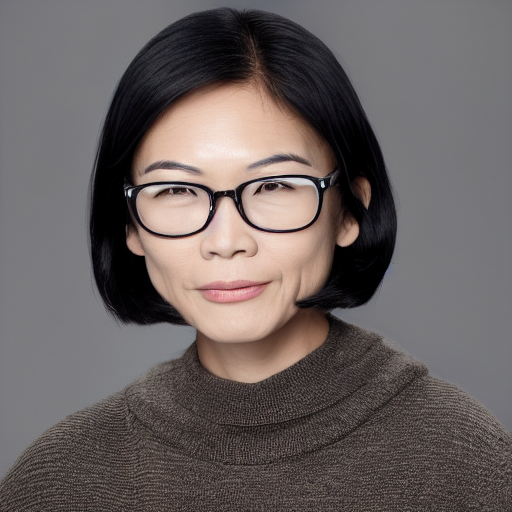
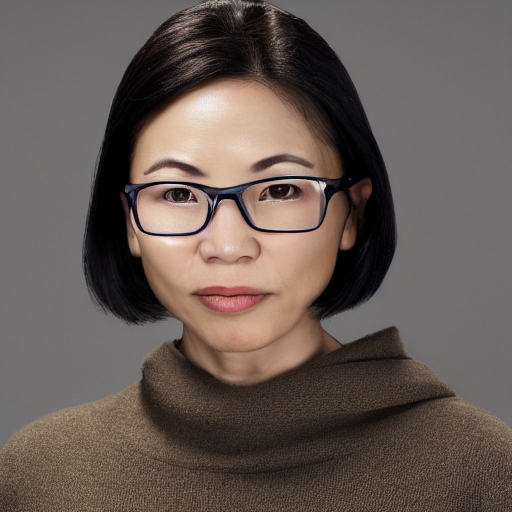
update: img-img fully functional

diff --git a/Codes/templates/image_refiner.html b/Codes/templates/image_refiner.html
@@ -4,36 +4,60 @@
     <meta charset="UTF-8">
     <meta http-equiv="X-UA-Compatible" content="IE=edge">
     <meta name="viewport" content="width=device-width, initial-scale=1.0">
-    <title>Image Refiner</title>
+    <title>Forensic Criminal Face Sketcher GenAI Tool</title>
     <style>
         body {
             font-family: 'Arial', sans-serif;
-            background-color: #f5f5f5;
+            background-color: #1a1a1a; /* Dark background color */
+            color: #fff; /* Light text color */
             margin: 0;
             padding: 0;
-            text-align: center; /* Center text horizontally */
+            display: flex;
+            justify-content: space-between; /* Adjusted to have space between columns */
+        }
+
+        .left-column {
+            flex: 1; /* Adjusted to take 50% of the space */
             display: flex;
             flex-direction: column;
             align-items: center;
             justify-content: center;
+            padding: 20px;
         }
 
-        h1, p {
-            color: #000; /* Dark text color for headings, labels, and paragraphs */
+        .right-column {
+            flex: 1; /* Adjusted to take 50% of the space */
+            display: flex;
+            flex-direction: column;
+            align-items: center;
+            justify-content: center;
+            padding: 20px;
         }
 
-        label {
+        h1, h2 {
+            color: #ffffff;
+        }
+
+        .image-container {
+            margin-bottom: 20px;
+            width: 80%; /* Adjusted to take full width of the column */
+            box-sizing: border-box;
+        }
+
+        img {
+            max-width: 100%;
+            height: auto;
+            width: 100%;
             display: block;
-            margin-bottom: 10px;
-            color: #000;
+            margin: 0 auto;
         }
 
         form {
-            background-color: #fff; /* Lighter background color for form */
-            color: #000; /* Dark text color for form */
+            background-color: #2a2a2a;
+            color: #fff;
             padding: 20px;
             border-radius: 8px;
-            box-shadow: 0 0 10px rgba(0, 0, 0, 0.1); /* Adjust the shadow color */
+            box-shadow: 0 0 10px rgba(255, 255, 255, 0.1);
             width: 80%;
             max-width: 400px;
             margin: 20px auto;
@@ -41,14 +65,17 @@
         }
 
         input {
-            background-color: #f2f2f2; /* Lighter background color for input */
-            color: #000; /* Dark text color for input */
+            background-color: #444;
+            color: #fff;
             width: 100%;
-            padding: 10px;
+            height: 100px;
+            padding: 15px;
+            margin-top: 20px;
             margin-bottom: 20px;
             box-sizing: border-box;
-            border: 1px solid #ccc; /* Lighter border color */
+            border: 1px solid #555;
             border-radius: 4px;
+            text-align: left;
         }
 
         button {
@@ -59,42 +86,60 @@
             border-radius: 4px;
             cursor: pointer;
             width: 100%;
+            margin-top: 10px; /* Adjusted margin */
         }
 
         button:hover {
             background-color: #34ff4c;
         }
     </style>
-</head>
 <body>
-    <h1>Image Refiner - Image {{image_number}}</h1>
-
-
-    <div class="image-container">
-        <img id="selectedImage" src="{{ url_for('static', filename='output' + image_number + '.png') }}" alt="Selected Image">
+    <div class="left-column">
+        <h1>Forensic Criminal Face Sketcher GenAI Tool</h1>
+        <h2>Image Refine Stage</h2>
+        <div class="image-container">
+            <img id="selectedImage" src="{{ url_for('static', filename='output' + image_number + '.png') }}" alt="Selected Image">
+        </div>
     </div>
 
-    <form>
-        <label for="refinePrompt">Refine Prompts:</label>
-        <input type="text" id="refinePrompt" required>
-        <button type="button" onclick="refineImage()">Refine Image</button>
-    </form>
+    <div class="right-column">
+        <form action="{{ url_for('refine_gen') }}" method="post">
+            <label for="refinePrompt">Enter refine information:</label>
+            <input type="text" name="refinePrompt" required>
+            <button type="submit">Refine Image</button>
+        </form>
 
-    <form action="{{ url_for('index') }}">
-        <button type="submit">Back to Index</button>
-    </form>
+        <form action="{{ url_for('index') }}">
+            <button type="submit">Back to Regeneration</button>
+        </form>
+    </div>
 
     <script>
-        function refineImage() {
-            // You can add logic here to handle refining the image with the entered prompts
-            alert("Refining image with prompts: " + document.getElementById('refinePrompt').value);
-        }
 
         function redirectToIndex() {
             // Redirect back to index.html
             window.location.href = url_for('generate');
         }
 
+        function redirectToImageRefiner(imageNumber) {
+            // Create a form element
+            var form = document.createElement('form');
+            form.method = 'post';
+            form.action = "{{ url_for('refine') }}";
+    
+            // Create an input element to hold the image number
+            var input = document.createElement('input');
+            input.type = 'hidden';
+            input.name = 'image_number';
+            input.value = imageNumber;
+    
+            // Append the input element to the form
+            form.appendChild(input);
+    
+            // Append the form to the body and submit it
+            document.body.appendChild(form);
+            form.submit();
+        }
     </script>
 </body>
 </html>

diff --git a/Codes/templates/index.html b/Codes/templates/index.html
@@ -62,11 +62,13 @@
             background-color: #444; /* Darker background color for input */
             color: #fff; /* Light text color for input */
             width: 100%;
-            padding: 10px;
+            height: 100px; /* Increased height */
+            padding: 15px; /* Increased padding */
             margin-bottom: 20px;
             box-sizing: border-box;
             border: 1px solid #555; /* Darker border color */
             border-radius: 4px;
+            text-align: left; /* Align text to the left */
         }
 
         button {

diff --git a/Codes/web_interface_test.py b/Codes/web_interface_test.py
@@ -75,14 +75,55 @@ def generate():
 
     return render_template('index.html', refined_prompts=refined_prompts, base64_1=base64_img[0], base64_2=base64_img[1], base64_3=base64_img[2])
 
+@app.route('/refine_gen', methods=['POST'])
+def refine_gen():
+    prompt = request.form['refinePrompt']
+
+    # Read the image file and convert it to base64
+    with open("target.png", "rb") as img_file:
+        img_data = base64.b64encode(img_file.read()).decode('utf-8')
+
+    for i in range(3):
+        
+        # Define the payload to send for each image
+        payload = {
+            "positive_prompt": "photo, portrait, face, looking at viewer, plain background",
+            "negative_prompt": "(((deformed face))),(side view:1.2), worst quality, low quality, low res, blurry, text, watermark, logo, banner, extra digits, cropped, jpeg artifacts, error, sketch ,duplicate, monochrome, geometry, mutation, fused face, cloned face",
+            "prompt": prompt,
+            "steps": 10,
+            "width": 512,
+            "height": 512,
+            "init_images": [
+                img_data
+            ]
+        }
+
+        # Send payload to the API for each image
+        response = requests.post(url=f'http://127.0.0.1:7860/sdapi/v1/img2img', json=payload)
+        r = response.json()
+
+        base64_img[i] = r['images'][0]
+
+        # Decode and save the image with a unique filename
+        with open(f"static/output{i+1}.png", 'wb') as f:
+            f.write(base64.b64decode(r['images'][0]))
+
+    return render_template('index.html', refined_prompts=prompt, base64_1=base64_img[0], base64_2=base64_img[1], base64_3=base64_img[2])
+
+
 @app.route('/refine', methods=['POST'])
 def refine():
     image_number = request.form.get('image_number')
     
-    # Use the image_number variable as needed
-    
-    return render_template('image_refiner.html', image_number=image_number)
+    # Assuming you want to save the output image as 'target.png'
+    target_filename = 'target.png'
+    base64_image = base64_img[int(image_number) - 1]
 
+    # Decode and save the image with the specified filename
+    with open(target_filename, 'wb') as f:
+        f.write(base64.b64decode(base64_image))
+
+    return render_template('image_refiner.html', image_number=image_number)
 
 if __name__ == '__main__':
     app.run(debug=True)
